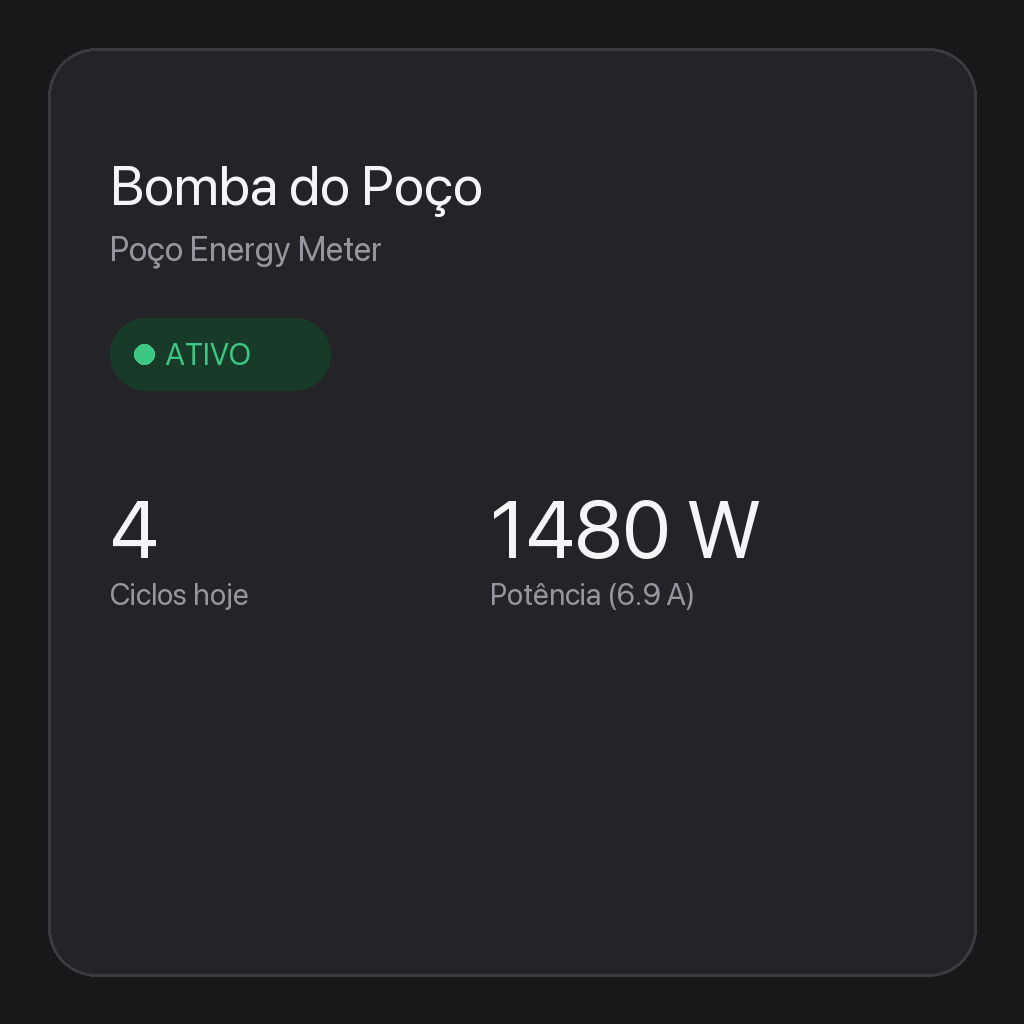
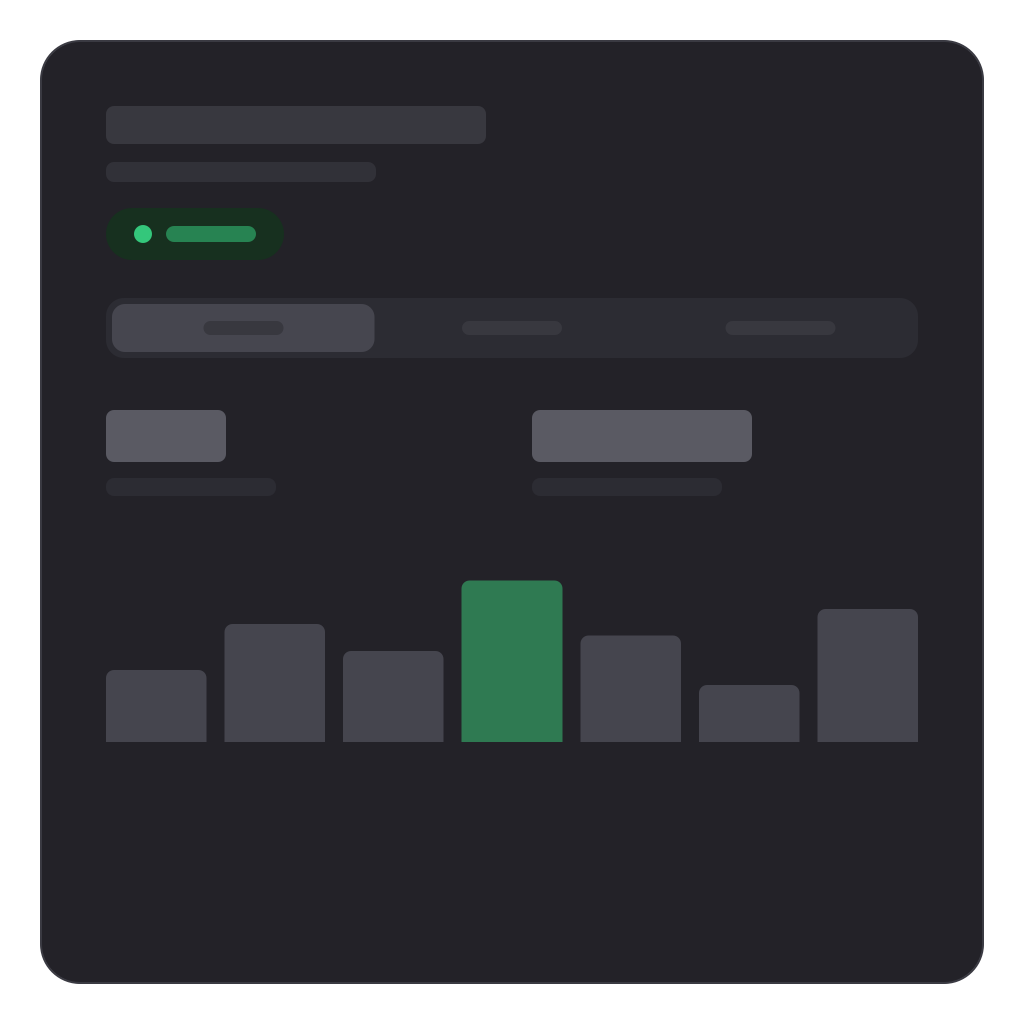
Sentinel widget preview in the same wireframe style as the other five
The last preview still showed a realistic mock card with Portuguese sample
text. It is now the abstract layout of the widget (name and device bars, a
status pill, the period switch, two headline numbers and a small chart), light
and dark, like the other widgets. TODO: Polish stays parked until someone who
reads it can check the wording.

Changed region(s): [[0.0, 0.0, 1.0, 1.0], [0.0938, 0.1562, 0.9062, 0.75]]

diff --git a/TODO.md b/TODO.md
@@ -11,8 +11,8 @@ a new monitor in Portuguese, and after deleting it and choosing Spanish a new mo
 "Same as Homey" choice (`homey.i18n.getLanguage()`; it falls back to English if it is missing) and the group form's
 *Fill default wording* button with a chosen language.
 For the next changelog (1.0.9): Activity and State monitors now start with wording in your language too, and a Default
-message language setting with Portuguese. Still open: Polish (needs a native check), more languages only with someone
-who reads them, and the Settings page's own text, which is English only.
+message language setting with Portuguese. Still open: Polish (parked on purpose: only if someone who reads it turns up to check the wording), more languages only with
+someone who reads them, and the Settings page's own text, which is English only.
 
 ### Binary Counter removed, and a capability-first Add form: DONE 2026-10-03 (not in a published version yet)
 
@@ -55,8 +55,7 @@ Edit forms (and that the new device's history starts clean while the old rows st
 **`%power%` / `%energy%`** on a combined meter (empty, not 0, on a device without power) and new Voltage monitors
 starting with real default wording instead of blank (existing blank ones were left alone on purpose); Group
 **Fill default wording** and new Voltage defaults in en/nl/de/fr/it/sv/no/es/da via `locales/` (superseded by the
-Default message language section above, which no longer uses Homey's `__()`); the five **wireframe widget previews** (Sentinel's own preview is still the old realistic,
-Portuguese one). Polish was drafted and pulled (flexion needs a native check).
+Default message language section above, which no longer uses Homey's `__()`); the six **wireframe widget previews** (Sentinel's was redone on 2026-10-03, so all six match). Polish was drafted and pulled (flexion needs a native check).
 
 ## Pending (2026-09-20)
 
